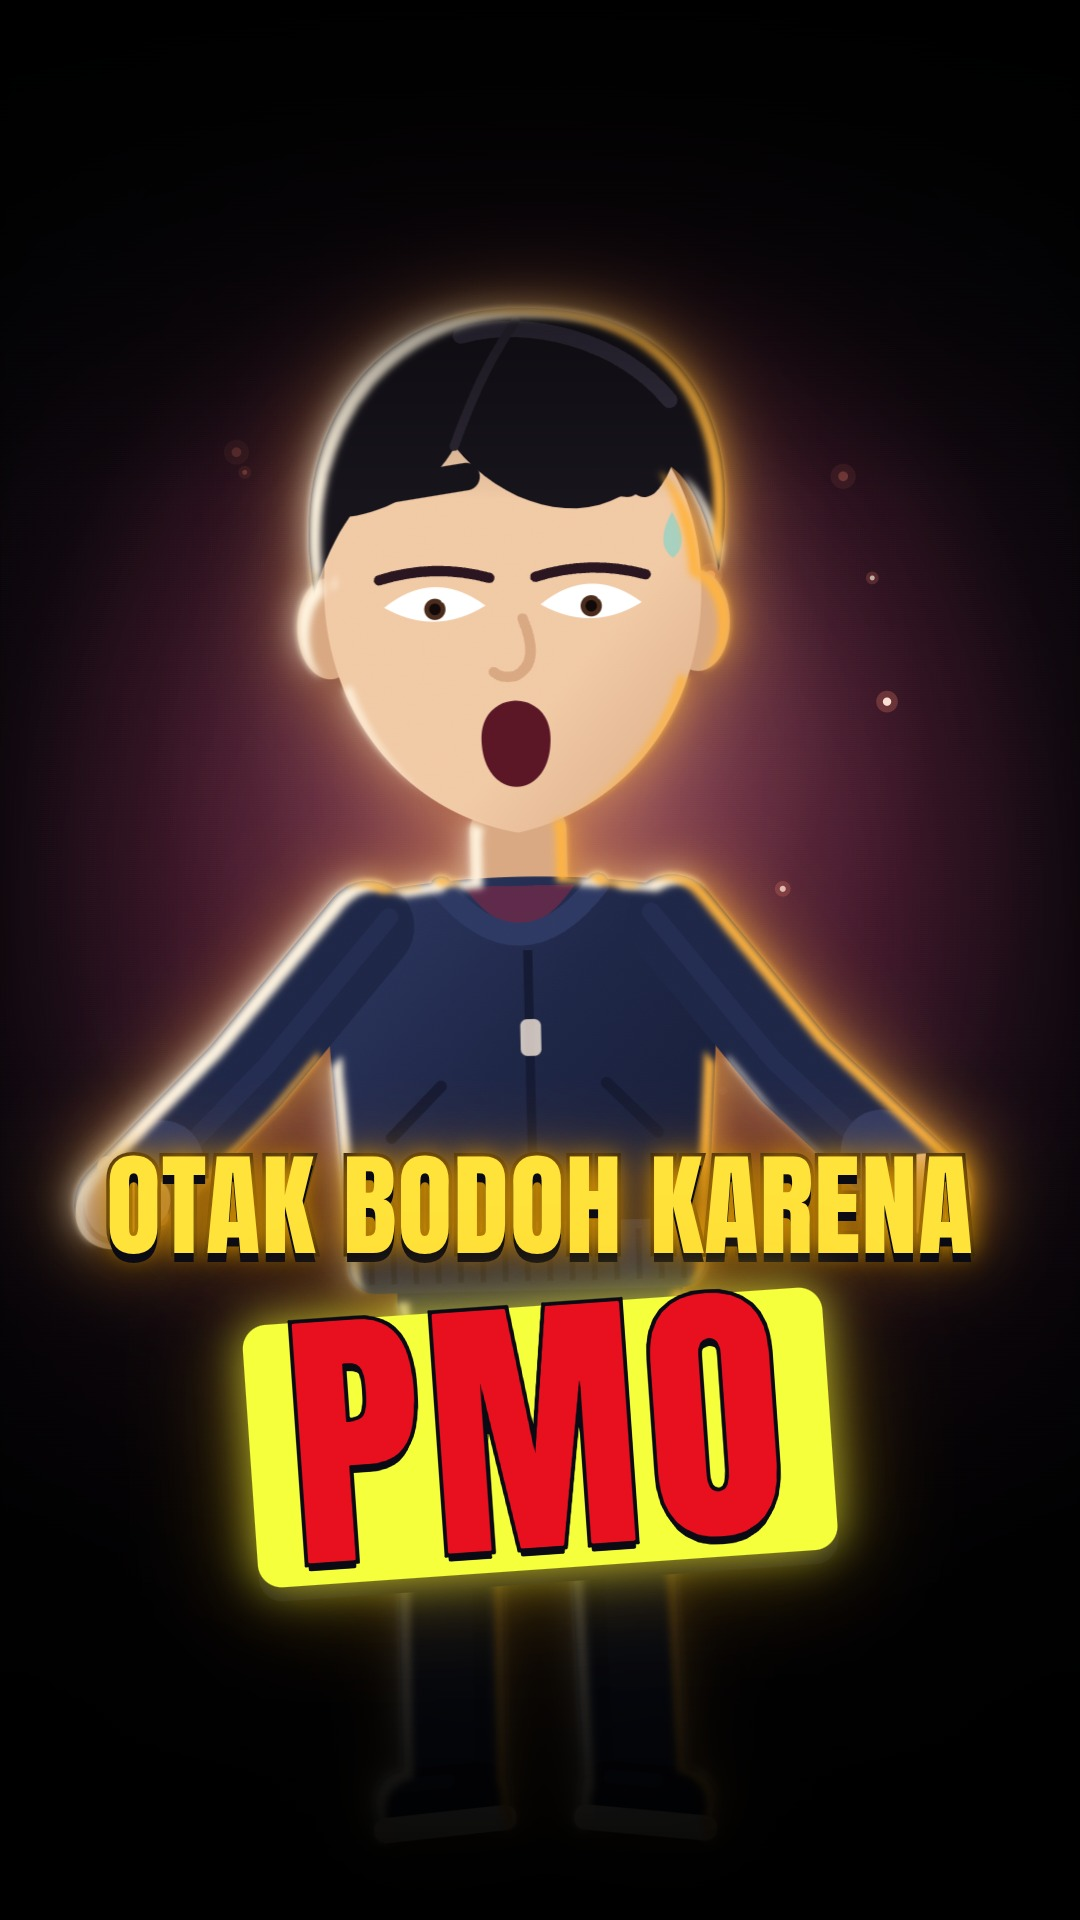
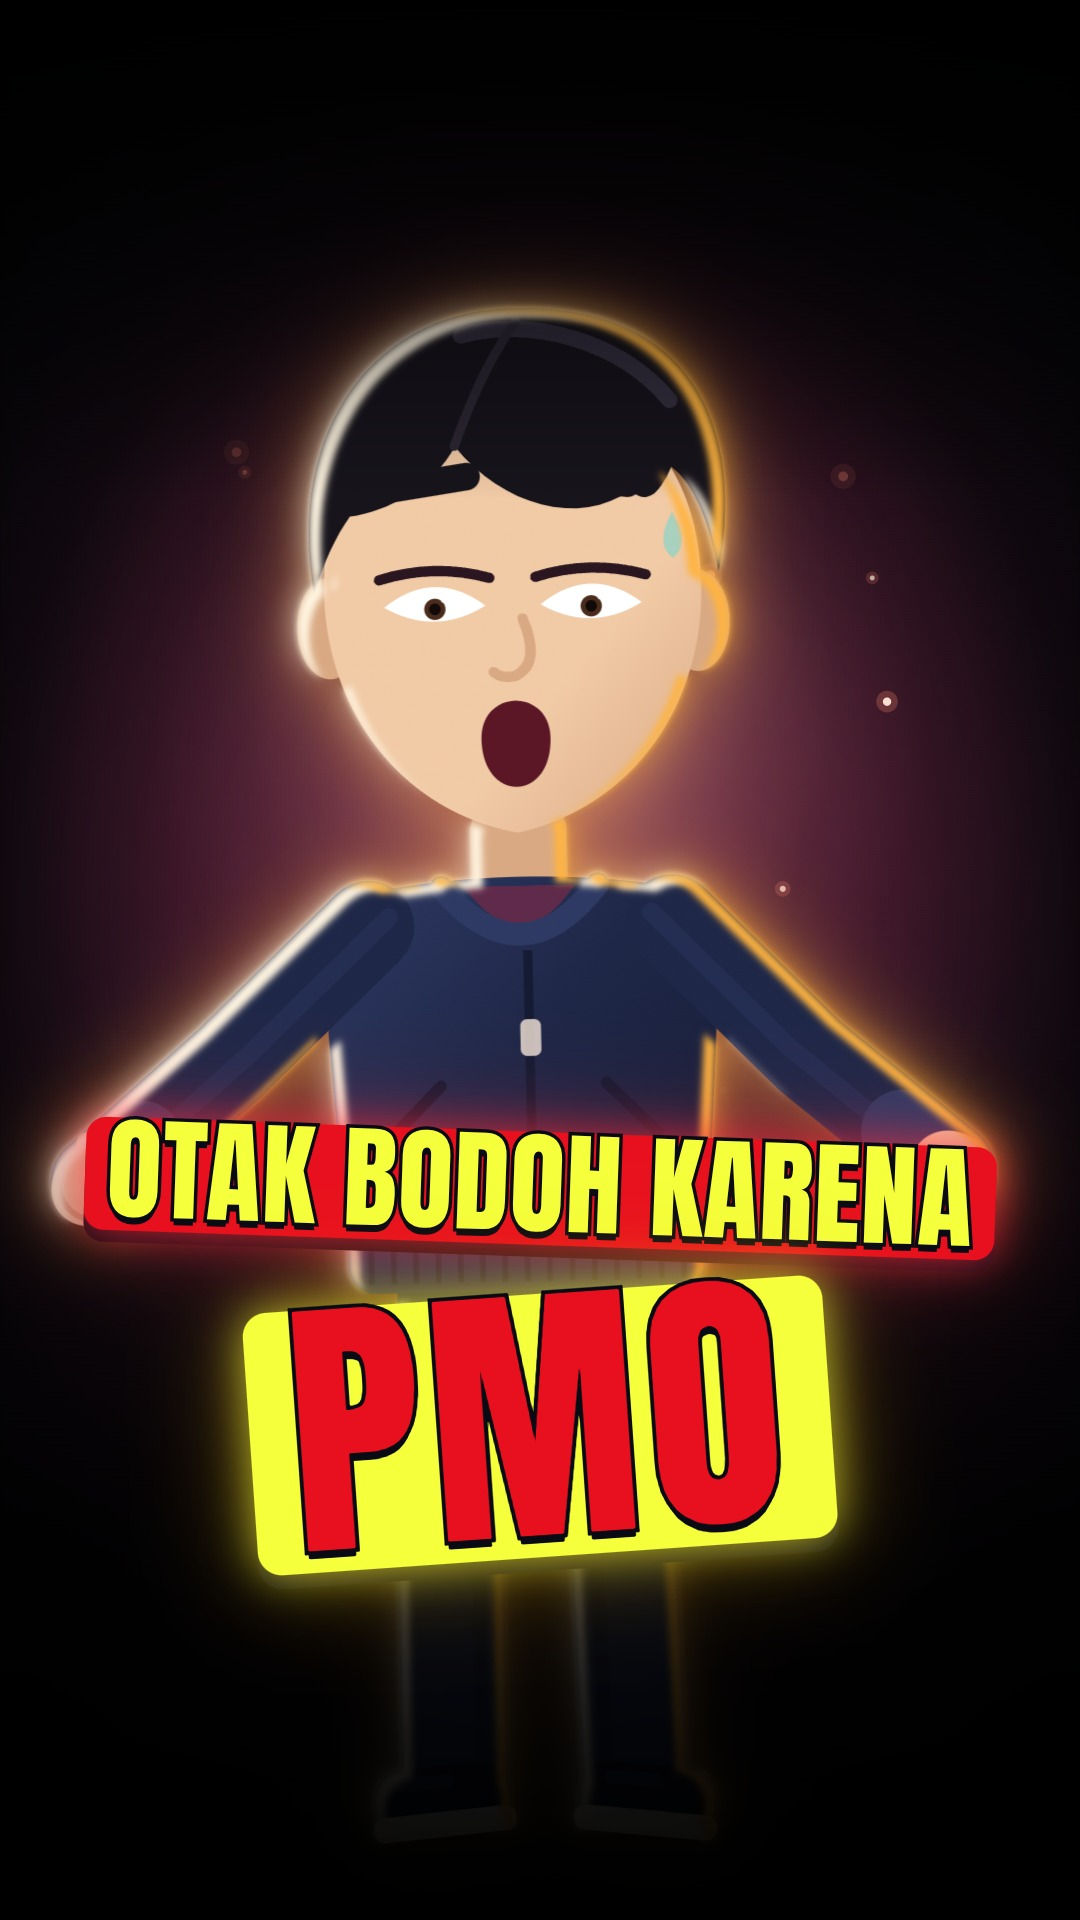
otakbodoh: thumbnail - baris 1 kuning di atas highlight merah (kebalikan PMO), tangan di ujung kotak
Claude-Session: https://claude.ai/code/session_01PossTfFcZFX1SneWtUCcrT

Changed region(s): [[0.0, 0.4688, 0.9778, 0.8438]]

diff --git a/remotion_otakbodoh/src/Thumbnail.tsx b/remotion_otakbodoh/src/Thumbnail.tsx
@@ -35,7 +35,7 @@ const L1 = 'OTAK BODOH KARENA';
 
 export const Thumbnail: React.FC = () => {
   // baris 1 mengisi jarak antar genggaman (ujung huruf ada di tangan), tetap di dalam 80 px kiri/kanan
-  const span = Math.min(hr.x - hl.x + 60, 920);
+  const span = 850; // lebar baris 1 tetap; tangan menggenggam tepat di ujung kotak highlight
   const fs1 = (span / measure(L1, 100)) * 100;
   const fs2 = Math.max(fs1 * 1.9, 280); // PMO tetap paling besar
   return (
@@ -62,11 +62,16 @@ export const Thumbnail: React.FC = () => {
 
       {/* TEKS — overlay paling depan */}
       <div style={{position: 'absolute', left: 0, right: 0, top: L1_Y - fs1 * 0.62, textAlign: 'center', fontFamily: DISPLAY, fontWeight: 400, lineHeight: 1.12}}>
-        {/* baris 1: warna highlight kuning-oranye menyala */}
-        <div style={{fontSize: fs1, letterSpacing: 1, whiteSpace: 'nowrap', color: '#FFE23A', WebkitTextStroke: '7px #0A0A14', paintOrder: 'stroke fill',
-          textShadow: '0 9px 0 #0A0A14, 0 0 26px #FFB400CC, 0 0 60px #FF8A0088, 0 16px 34px rgba(0,0,0,0.9)'}}>{L1}</div>
+        {/* baris 1: teks KUNING di atas highlight MERAH (kebalikan warna PMO) */}
+        <div style={{display: 'inline-block', position: 'relative', transform: 'rotate(2deg)'}}>
+          <div style={{position: 'absolute', left: -22, right: -22, top: fs1 * 0.1, bottom: fs1 * 0.02, background: '#E8101E', borderRadius: 20,
+            boxShadow: '0 0 40px #FF2A3AAA, 0 0 90px #FF2A3A55, 0 12px 0 #0A0A14'}} />
+          <div style={{position: 'relative', fontSize: fs1, letterSpacing: 1, whiteSpace: 'nowrap', color: '#F5FF3B', WebkitTextStroke: '7px #0A0A14', paintOrder: 'stroke fill',
+            textShadow: '0 7px 0 #0A0A14'}}>{L1}</div>
+        </div>
+        <br />
         {/* baris 2: PMO paling besar, merah di atas highlight kuning */}
-        <div style={{marginTop: fs1 * 0.02, display: 'inline-block', position: 'relative', transform: 'rotate(-4deg)'}}>
+        <div style={{marginTop: fs1 * 0.12, display: 'inline-block', position: 'relative', transform: 'rotate(-4deg)'}}>
           <div style={{position: 'absolute', left: -40, right: -40, top: fs2 * 0.12, bottom: fs2 * 0.06, background: '#F5FF3B', borderRadius: 24,
             boxShadow: '0 0 44px #F5FF3BAA, 0 0 100px #FFB40066, 0 14px 0 #0A0A14'}} />
           <div style={{position: 'relative', fontSize: fs2, color: '#E8101E', letterSpacing: 8, WebkitTextStroke: '8px #0A0A14', paintOrder: 'stroke fill',

diff --git a/remotion_otakbodoh/src/components/Character.tsx b/remotion_otakbodoh/src/components/Character.tsx
@@ -226,7 +226,7 @@ export const POSES: Record<PoseName, Pose> = {
   walking_treadmill: mk({walk: 1, pelvisY: 252, lean: 3, armR: {a: 8, b: -24}, armL: {a: 8, b: -24}, headTilt: 3, pitch: 0.15}),
   // kepala tertunduk dalam, bahu jatuh
   // thumbnail: kedua tangan terentang ke samping-bawah memegang ujung teks judul
-  holding_text_edges: mk({armR: {a: 38, b: 6}, armL: {a: 38, b: 6}, shoulder: 0.3, headTilt: 0, pitch: -0.04, headDY: -2}),
+  holding_text_edges: mk({armR: {a: 44, b: 4}, armL: {a: 44, b: 4}, shoulder: 0.3, headTilt: 0, pitch: -0.04, headDY: -2}),
   head_down: mk({pitch: 0.9, headDY: 20, headTilt: 4, armR: {a: 2, b: -2}, armL: {a: 2, b: -2}, shoulder: 0.55, torsoSY: 0.96, pelvisY: 224}),
 };
 
